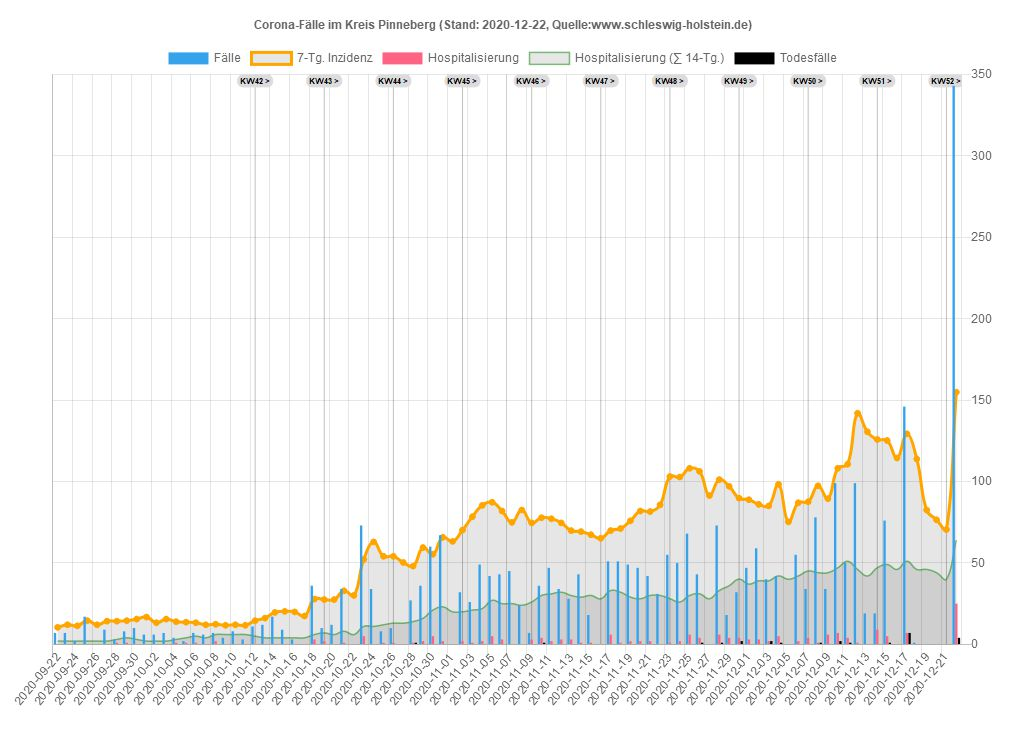
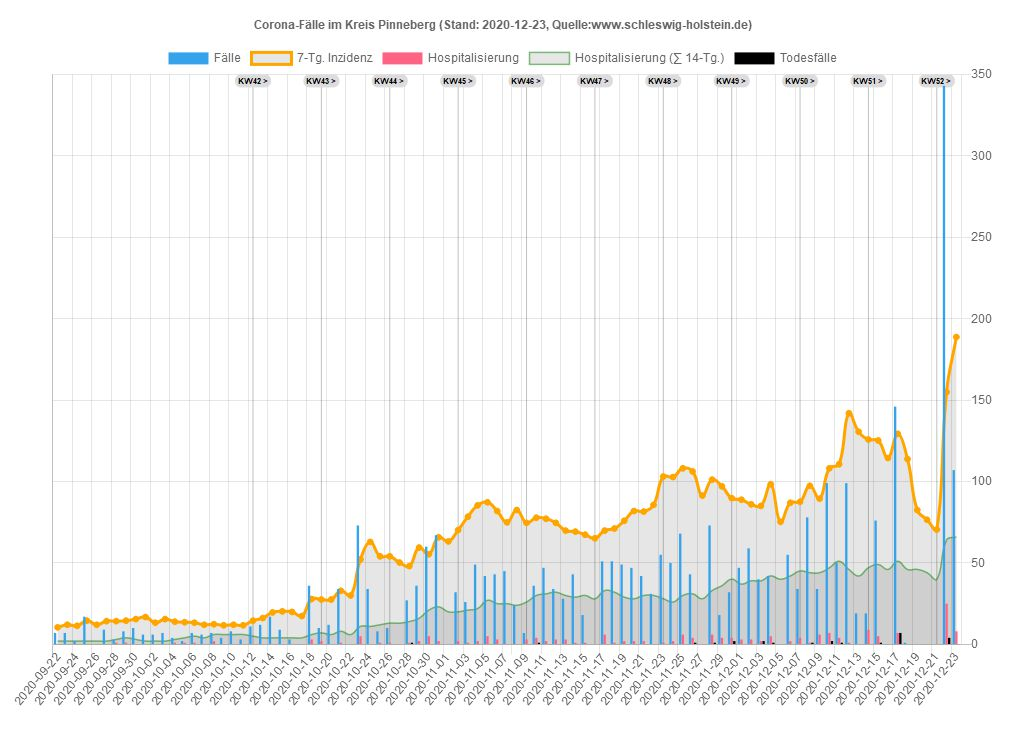
23.12.2020 21:50:43,80

Changed region(s): [[0.0625, 0.0931, 0.9375, 0.9622]]

diff --git a/sh/Data_SH.js b/sh/Data_SH.js
@@ -1,33 +1,33 @@
 var chdata={
-labels: ["2020-09-22","2020-09-23","2020-09-24","2020-09-25","2020-09-26","2020-09-27","2020-09-28","2020-09-29","2020-09-30","2020-10-01","2020-10-02","2020-10-03","2020-10-04","2020-10-05","2020-10-06","2020-10-07","2020-10-08","2020-10-09","2020-10-10","2020-10-11","2020-10-12","2020-10-13","2020-10-14","2020-10-15","2020-10-16","2020-10-17","2020-10-18","2020-10-19","2020-10-20","2020-10-21","2020-10-22","2020-10-23","2020-10-24","2020-10-25","2020-10-26","2020-10-27","2020-10-28","2020-10-29","2020-10-30","2020-10-31","2020-11-01","2020-11-02","2020-11-03","2020-11-04","2020-11-05","2020-11-06","2020-11-07","2020-11-08","2020-11-09","2020-11-10","2020-11-11","2020-11-12","2020-11-13","2020-11-14","2020-11-15","2020-11-16","2020-11-17","2020-11-18","2020-11-19","2020-11-20","2020-11-21","2020-11-22","2020-11-23","2020-11-24","2020-11-25","2020-11-26","2020-11-27","2020-11-28","2020-11-29","2020-11-30","2020-12-01","2020-12-02","2020-12-03","2020-12-04","2020-12-05","2020-12-06","2020-12-07","2020-12-08","2020-12-09","2020-12-10","2020-12-11","2020-12-12","2020-12-13","2020-12-14","2020-12-15","2020-12-16","2020-12-17","2020-12-18","2020-12-19","2020-12-20","2020-12-21","2020-12-22"],
+labels: ["2020-09-22","2020-09-23","2020-09-24","2020-09-25","2020-09-26","2020-09-27","2020-09-28","2020-09-29","2020-09-30","2020-10-01","2020-10-02","2020-10-03","2020-10-04","2020-10-05","2020-10-06","2020-10-07","2020-10-08","2020-10-09","2020-10-10","2020-10-11","2020-10-12","2020-10-13","2020-10-14","2020-10-15","2020-10-16","2020-10-17","2020-10-18","2020-10-19","2020-10-20","2020-10-21","2020-10-22","2020-10-23","2020-10-24","2020-10-25","2020-10-26","2020-10-27","2020-10-28","2020-10-29","2020-10-30","2020-10-31","2020-11-01","2020-11-02","2020-11-03","2020-11-04","2020-11-05","2020-11-06","2020-11-07","2020-11-08","2020-11-09","2020-11-10","2020-11-11","2020-11-12","2020-11-13","2020-11-14","2020-11-15","2020-11-16","2020-11-17","2020-11-18","2020-11-19","2020-11-20","2020-11-21","2020-11-22","2020-11-23","2020-11-24","2020-11-25","2020-11-26","2020-11-27","2020-11-28","2020-11-29","2020-11-30","2020-12-01","2020-12-02","2020-12-03","2020-12-04","2020-12-05","2020-12-06","2020-12-07","2020-12-08","2020-12-09","2020-12-10","2020-12-11","2020-12-12","2020-12-13","2020-12-14","2020-12-15","2020-12-16","2020-12-17","2020-12-18","2020-12-19","2020-12-20","2020-12-21","2020-12-22","2020-12-23"],
 datasets: [
 {label: 'Fälle',
 type: 'bar',
 backgroundColor: window.chartColors.blue,
-data: [38,42,63,53,15,15,38,48,49,27,50,16,24,39,54,45,79,54,26,25,65,65,65,55,90,26,88,163,111,160,136,236,142,115,164,164,280,215,313,265,161,142,236,262,220,274,233,177,215,252,247,192,296,158,161,100,294,208,264,250,153,121,145,251,256,225,180,219,71,81,244,240,245,318,234,154,183,314,297,529,384,472,140,241,486,322,602,508,431,157,211,776]},
+data: [38,42,63,53,15,15,38,48,49,27,50,16,24,39,54,45,79,54,26,25,65,65,65,55,90,26,88,163,111,160,136,236,142,115,164,164,280,215,313,265,161,142,236,262,220,274,233,177,215,252,247,192,296,158,161,100,294,208,264,250,153,121,145,251,256,225,180,219,71,81,244,240,245,318,234,154,183,314,297,529,384,472,140,241,486,322,602,508,431,157,211,776,722]},
 {label: '7-Tg. Inzidenz',
 type: 'line',
 pointBackgroundColor: 'orange',
 borderColor: 'orange',
-data: [7.23197027,7.88629139,8.74724023,9.40156135,9.33268544,9.16049567,9.09161977,9.4359993,9.67706498,8.43729865,8.33398478,8.36842274,8.67836432,8.71280227,8.91943,8.78167818,10.5724518,10.7102036,11.0545831,11.0890211,11.9844079,12.3632254,13.0519844,12.2254735,13.4652399,13.4652399,15.634831,19.0097504,20.5938963,23.8655019,26.6549761,31.6829174,35.67772,36.6075447,36.6419827,38.4671942,42.5997487,45.320347,47.9720694,52.2079377,53.7920836,53.0344486,55.5139813,54.8940981,55.0662879,53.7232077,52.6211932,53.1722004,55.6861711,56.2371783,55.720609,54.7563463,55.5139813,52.9311348,52.3801275,48.4197628,49.8661569,48.5230767,51.0026094,49.4184635,49.2462737,47.8687556,49.4184635,47.9376315,49.5906533,48.2475731,45.8369163,48.1098213,46.3879236,44.1838945,43.9428289,43.3918216,44.0805807,48.8330183,49.3495876,52.2079377,55.720609,58.1312658,60.0942291,69.874608,72.1475129,80.3437459,79.8616145,81.8590158,87.7823439,88.6432927,91.1572633,95.4275696,94.0156135,94.6010587,93.5679201,103.554927]},
+data: [7.23197027,7.88629139,8.74724023,9.40156135,9.33268544,9.16049567,9.09161977,9.4359993,9.67706498,8.43729865,8.33398478,8.36842274,8.67836432,8.71280227,8.91943,8.78167818,10.5724518,10.7102036,11.0545831,11.0890211,11.9844079,12.3632254,13.0519844,12.2254735,13.4652399,13.4652399,15.634831,19.0097504,20.5938963,23.8655019,26.6549761,31.6829174,35.67772,36.6075447,36.6419827,38.4671942,42.5997487,45.320347,47.9720694,52.2079377,53.7920836,53.0344486,55.5139813,54.8940981,55.0662879,53.7232077,52.6211932,53.1722004,55.6861711,56.2371783,55.720609,54.7563463,55.5139813,52.9311348,52.3801275,48.4197628,49.8661569,48.5230767,51.0026094,49.4184635,49.2462737,47.8687556,49.4184635,47.9376315,49.5906533,48.2475731,45.8369163,48.1098213,46.3879236,44.1838945,43.9428289,43.3918216,44.0805807,48.8330183,49.3495876,52.2079377,55.720609,58.1312658,60.0942291,69.874608,72.1475129,80.3437459,79.8616145,81.8590158,87.7823439,88.6432927,91.1572633,95.4275696,94.0156135,94.6010587,93.5679201,103.554927,117.330108]},
 {label: 'Hospitalisierung',
 type: 'bar',
 backgroundColor: window.chartColors.red,
-data: [1,2,7,1,0,0,2,1,3,1,1,0,4,3,1,1,4,2,0,3,5,1,1,2,4,0,9,10,8,9,12,7,5,6,7,7,11,10,11,6,3,9,19,20,15,15,5,7,13,15,21,13,17,8,17,13,23,10,15,9,7,7,13,16,26,19,12,14,15,10,12,8,10,14,3,5,24,13,26,20,14,12,6,26,27,16,20,18,8,13,13,43]},
+data: [1,2,7,1,0,0,2,1,3,1,1,0,4,3,1,1,4,2,0,3,5,1,1,2,4,0,9,10,8,9,12,7,5,6,7,7,11,10,11,6,3,9,19,20,15,15,5,7,13,15,21,13,17,8,17,13,23,10,15,9,7,7,13,16,26,19,12,14,15,10,12,8,10,14,3,5,24,13,26,20,14,12,6,26,27,16,20,18,8,13,13,43,35]},
 {label: 'Hosp. (∑ 14-Tg.)',
 type: 'line',
 borderColor: 'rgba(0,255,0,0.5)',
 borderWidth: 1.5,
 pointRadius: 0,
-data: [12,12,20,22,22,22,22,23,23,21,22,21,24,26,26,25,22,23,23,26,29,29,27,28,31,31,36,43,50,58,66,71,76,79,81,87,97,105,112,118,112,111,122,133,136,144,144,145,151,159,169,172,178,180,194,198,202,192,192,186,188,188,188,189,194,200,195,201,199,196,185,183,178,183,179,177,188,185,185,186,188,186,177,193,208,216,226,230,235,243,232,262]},
+data: [12,12,20,22,22,22,22,23,23,21,22,21,24,26,26,25,22,23,23,26,29,29,27,28,31,31,36,43,50,58,66,71,76,79,81,87,97,105,112,118,112,111,122,133,136,144,144,145,151,159,169,172,178,180,194,198,202,192,192,186,188,188,188,189,194,200,195,201,199,196,185,183,178,183,179,177,188,185,185,186,188,186,177,193,208,216,226,230,235,243,232,262,271]},
 {label: 'Aktuell im Krankenhaus',
 type: 'line',
 pointBackgroundColor: 'green',
 borderColor: 'green',
-data: [6,6,6,6,6,6,6,11,11,11,11,14,14,15,15,14,14,14,13,13,18,18,18,21,24,24,24,24,31,31,31,31,51,51,58,58,58,58,58,58,58,94,110,114,119,118,124,120,126,116,113,119,112,116,116,148,145,151,141,141,141,141,155,142,122,113,118,118,118,124,114,110,109,114,114,114,131,122,128,132,133,133,133,177,181,194,201,212,236,250,275,271]},
+data: [6,6,6,6,6,6,6,11,11,11,11,14,14,15,15,14,14,14,13,13,18,18,18,21,24,24,24,24,31,31,31,31,51,51,58,58,58,58,58,58,58,94,110,114,119,118,124,120,126,116,113,119,112,116,116,148,145,151,141,141,141,141,155,142,122,113,118,118,118,124,114,110,109,114,114,114,131,122,128,132,133,133,133,177,181,194,201,212,236,250,275,271,267]},
 {label: 'Todesfälle',
 type: 'bar',
 backgroundColor: 'black',
-data: [0,0,0,0,0,0,0,1,0,0,0,0,0,0,0,0,0,0,0,0,0,1,0,0,0,0,0,0,0,0,1,0,0,3,0,0,3,4,1,0,2,6,7,2,2,6,0,1,4,3,5,0,5,1,3,5,0,2,2,2,1,0,3,4,1,3,3,1,4,2,3,1,4,1,0,1,4,2,5,7,7,1,2,2,6,7,11,3,2,0,9,15]},
+data: [0,0,0,0,0,0,0,1,0,0,0,0,0,0,0,0,0,0,0,0,0,1,0,0,0,0,0,0,0,0,1,0,0,3,0,0,3,4,1,0,2,6,7,2,2,6,0,1,4,3,5,0,5,1,3,5,0,2,2,2,1,0,3,4,1,3,3,1,4,2,3,1,4,1,0,1,4,2,5,7,7,1,2,2,6,7,11,3,2,0,9,15,4]},
 ]};
 

diff --git a/sh/Data_SH_Alter.js b/sh/Data_SH_Alter.js
@@ -102,7 +102,8 @@ var chdata={
 				{x: '2020-12-19', y: 'Alle', v: 92.9480369, casesum: 2699},{x: '2020-12-19', y: '00-09', v: 52.1965394, casesum: 134},{x: '2020-12-19', y: '10-19', v: 91.3020322, casesum: 252},{x: '2020-12-19', y: '20-29', v: 134.703496, casesum: 431},{x: '2020-12-19', y: '30-39', v: 108.899726, casesum: 366},{x: '2020-12-19', y: '40-49', v: 107.525967, casesum: 379},{x: '2020-12-19', y: '50-59', v: 99.9190555, casesum: 495},{x: '2020-12-19', y: '60-69', v: 65.4691497, casesum: 238},{x: '2020-12-19', y: '70-79', v: 48.9979083, casesum: 145},{x: '2020-12-19', y: '80-89', v: 98.4108878, casesum: 176},{x: '2020-12-19', y: '90+', v: 288.034425, casesum: 83},
 				{x: '2020-12-20', y: 'Alle', v: 93.7056719, casesum: 2721},{x: '2020-12-20', y: '00-09', v: 49.4698546, casesum: 127},{x: '2020-12-20', y: '10-19', v: 97.4612963, casesum: 269},{x: '2020-12-20', y: '20-29', v: 134.390959, casesum: 430},{x: '2020-12-20', y: '30-39', v: 109.197266, casesum: 367},{x: '2020-12-20', y: '40-49', v: 110.079354, casesum: 388},{x: '2020-12-20', y: '50-59', v: 100.322769, casesum: 497},{x: '2020-12-20', y: '60-69', v: 67.1196325, casesum: 244},{x: '2020-12-20', y: '70-79', v: 47.6462419, casesum: 141},{x: '2020-12-20', y: '80-89', v: 98.4108878, casesum: 176},{x: '2020-12-20', y: '90+', v: 284.564131, casesum: 82},
 				{x: '2020-12-21', y: 'Alle', v: 92.8447231, casesum: 2696},{x: '2020-12-21', y: '00-09', v: 50.2489074, casesum: 129},{x: '2020-12-21', y: '10-19', v: 97.8236059, casesum: 270},{x: '2020-12-21', y: '20-29', v: 136.578719, casesum: 437},{x: '2020-12-21', y: '30-39', v: 101.16368, casesum: 340},{x: '2020-12-21', y: '40-49', v: 108.944515, casesum: 384},{x: '2020-12-21', y: '50-59', v: 100.322769, casesum: 497},{x: '2020-12-21', y: '60-69', v: 69.5953566, casesum: 253},{x: '2020-12-21', y: '70-79', v: 44.942909, casesum: 133},{x: '2020-12-21', y: '80-89', v: 99.5291934, casesum: 178},{x: '2020-12-21', y: '90+', v: 260.272071, casesum: 75},
-				{x: '2020-12-22', y: 'Alle', v: 102.797292, casesum: 2985},{x: '2020-12-22', y: '00-09', v: 43.2374319, casesum: 111},{x: '2020-12-22', y: '10-19', v: 104.34518, casesum: 288},{x: '2020-12-22', y: '20-29', v: 150.955426, casesum: 483},{x: '2020-12-22', y: '30-39', v: 114.25545, casesum: 384},{x: '2020-12-22', y: '40-49', v: 115.753547, casesum: 408},{x: '2020-12-22', y: '50-59', v: 111.223029, casesum: 551},{x: '2020-12-22', y: '60-69', v: 77.2976096, casesum: 281},{x: '2020-12-22', y: '70-79', v: 52.3770744, casesum: 155},{x: '2020-12-22', y: '80-89', v: 129.16429, casesum: 231},{x: '2020-12-22', y: '90+', v: 322.737368, casesum: 93}
+				{x: '2020-12-22', y: 'Alle', v: 102.797292, casesum: 2985},{x: '2020-12-22', y: '00-09', v: 43.2374319, casesum: 111},{x: '2020-12-22', y: '10-19', v: 104.34518, casesum: 288},{x: '2020-12-22', y: '20-29', v: 150.955426, casesum: 483},{x: '2020-12-22', y: '30-39', v: 114.25545, casesum: 384},{x: '2020-12-22', y: '40-49', v: 115.753547, casesum: 408},{x: '2020-12-22', y: '50-59', v: 111.223029, casesum: 551},{x: '2020-12-22', y: '60-69', v: 77.2976096, casesum: 281},{x: '2020-12-22', y: '70-79', v: 52.3770744, casesum: 155},{x: '2020-12-22', y: '80-89', v: 129.16429, casesum: 231},{x: '2020-12-22', y: '90+', v: 322.737368, casesum: 93},
+				{x: '2020-12-23', y: 'Alle', v: 81.411839, casesum: 2364.015},{x: '2020-12-23', y: '00-09', v: 47.5222225, casesum: 122},{x: '2020-12-23', y: '10-19', v: 111.953682, casesum: 309},{x: '2020-12-23', y: '20-29', v: 163.456911, casesum: 523},{x: '2020-12-23', y: '30-39', v: 130.620163, casesum: 439},{x: '2020-12-23', y: '40-49', v: 133.910966, casesum: 472},{x: '2020-12-23', y: '50-59', v: -83.1619234, casesum: -411.985},{x: '2020-12-23', y: '60-69', v: 92.4270349, casesum: 336},{x: '2020-12-23', y: '70-79', v: 57.1079069, casesum: 169},{x: '2020-12-23', y: '80-89', v: 158.799387, casesum: 284},{x: '2020-12-23', y: '90+', v: 423.375902, casesum: 122}
 			],
 			backgroundColor: function(context) {
 				return inzColor(context.dataset.data[context.dataIndex].v)
@@ -110,7 +111,7 @@ var chdata={
 			width: function(context) {
 				const a = context.chart.chartArea
 				if (!a) return 0
-				return (a.right - a.left) / 99.5
+				return (a.right - a.left) / 100.5
 			},
 			height: function(context) {
 				const a = context.chart.chartArea
@@ -122,7 +123,7 @@ var chdata={
 	options: {
 		legend: { display: false },
 		scales: {
-			xAxes: [{type: 'category', labels: ["2020-09-15","2020-09-16","2020-09-17","2020-09-18","2020-09-19","2020-09-20","2020-09-21","2020-09-22","2020-09-23","2020-09-24","2020-09-25","2020-09-26","2020-09-27","2020-09-28","2020-09-29","2020-09-30","2020-10-01","2020-10-02","2020-10-03","2020-10-04","2020-10-05","2020-10-06","2020-10-07","2020-10-08","2020-10-09","2020-10-10","2020-10-11","2020-10-12","2020-10-13","2020-10-14","2020-10-15","2020-10-16","2020-10-17","2020-10-18","2020-10-19","2020-10-20","2020-10-21","2020-10-22","2020-10-23","2020-10-24","2020-10-25","2020-10-26","2020-10-27","2020-10-28","2020-10-29","2020-10-30","2020-10-31","2020-11-01","2020-11-02","2020-11-03","2020-11-04","2020-11-05","2020-11-06","2020-11-07","2020-11-08","2020-11-09","2020-11-10","2020-11-11","2020-11-12","2020-11-13","2020-11-14","2020-11-15","2020-11-16","2020-11-17","2020-11-18","2020-11-19","2020-11-20","2020-11-21","2020-11-22","2020-11-23","2020-11-24","2020-11-25","2020-11-26","2020-11-27","2020-11-28","2020-11-29","2020-11-30","2020-12-01","2020-12-02","2020-12-03","2020-12-04","2020-12-05","2020-12-06","2020-12-07","2020-12-08","2020-12-09","2020-12-10","2020-12-11","2020-12-12","2020-12-13","2020-12-14","2020-12-15","2020-12-16","2020-12-17","2020-12-18","2020-12-19","2020-12-20","2020-12-21","2020-12-22",], ticks: {display: true},gridlines:{display:false}}],
+			xAxes: [{type: 'category', labels: ["2020-09-15","2020-09-16","2020-09-17","2020-09-18","2020-09-19","2020-09-20","2020-09-21","2020-09-22","2020-09-23","2020-09-24","2020-09-25","2020-09-26","2020-09-27","2020-09-28","2020-09-29","2020-09-30","2020-10-01","2020-10-02","2020-10-03","2020-10-04","2020-10-05","2020-10-06","2020-10-07","2020-10-08","2020-10-09","2020-10-10","2020-10-11","2020-10-12","2020-10-13","2020-10-14","2020-10-15","2020-10-16","2020-10-17","2020-10-18","2020-10-19","2020-10-20","2020-10-21","2020-10-22","2020-10-23","2020-10-24","2020-10-25","2020-10-26","2020-10-27","2020-10-28","2020-10-29","2020-10-30","2020-10-31","2020-11-01","2020-11-02","2020-11-03","2020-11-04","2020-11-05","2020-11-06","2020-11-07","2020-11-08","2020-11-09","2020-11-10","2020-11-11","2020-11-12","2020-11-13","2020-11-14","2020-11-15","2020-11-16","2020-11-17","2020-11-18","2020-11-19","2020-11-20","2020-11-21","2020-11-22","2020-11-23","2020-11-24","2020-11-25","2020-11-26","2020-11-27","2020-11-28","2020-11-29","2020-11-30","2020-12-01","2020-12-02","2020-12-03","2020-12-04","2020-12-05","2020-12-06","2020-12-07","2020-12-08","2020-12-09","2020-12-10","2020-12-11","2020-12-12","2020-12-13","2020-12-14","2020-12-15","2020-12-16","2020-12-17","2020-12-18","2020-12-19","2020-12-20","2020-12-21","2020-12-22","2020-12-23",], ticks: {display: true},gridlines:{display:false}}],
 			yAxes: [{type: 'category', labels: ["Alle","00-09","10-19","20-29","30-39","40-49","50-59","60-69","70-79","80-89","90+"], offset:true, ticks: {display: true},gridlines:{display:false}}],
 		},
 	}

diff --git a/sh/Kreis_PI.js b/sh/Kreis_PI.js
@@ -1,33 +1,33 @@
 var chdata={
-labels: ["2020-09-22","2020-09-23","2020-09-24","2020-09-25","2020-09-26","2020-09-27","2020-09-28","2020-09-29","2020-09-30","2020-10-01","2020-10-02","2020-10-03","2020-10-04","2020-10-05","2020-10-06","2020-10-07","2020-10-08","2020-10-09","2020-10-10","2020-10-11","2020-10-12","2020-10-13","2020-10-14","2020-10-15","2020-10-16","2020-10-17","2020-10-18","2020-10-19","2020-10-20","2020-10-21","2020-10-22","2020-10-23","2020-10-24","2020-10-25","2020-10-26","2020-10-27","2020-10-28","2020-10-29","2020-10-30","2020-10-31","2020-11-01","2020-11-02","2020-11-03","2020-11-04","2020-11-05","2020-11-06","2020-11-07","2020-11-08","2020-11-09","2020-11-10","2020-11-11","2020-11-12","2020-11-13","2020-11-14","2020-11-15","2020-11-16","2020-11-17","2020-11-18","2020-11-19","2020-11-20","2020-11-21","2020-11-22","2020-11-23","2020-11-24","2020-11-25","2020-11-26","2020-11-27","2020-11-28","2020-11-29","2020-11-30","2020-12-01","2020-12-02","2020-12-03","2020-12-04","2020-12-05","2020-12-06","2020-12-07","2020-12-08","2020-12-09","2020-12-10","2020-12-11","2020-12-12","2020-12-13","2020-12-14","2020-12-15","2020-12-16","2020-12-17","2020-12-18","2020-12-19","2020-12-20","2020-12-21","2020-12-22"],
+labels: ["2020-09-22","2020-09-23","2020-09-24","2020-09-25","2020-09-26","2020-09-27","2020-09-28","2020-09-29","2020-09-30","2020-10-01","2020-10-02","2020-10-03","2020-10-04","2020-10-05","2020-10-06","2020-10-07","2020-10-08","2020-10-09","2020-10-10","2020-10-11","2020-10-12","2020-10-13","2020-10-14","2020-10-15","2020-10-16","2020-10-17","2020-10-18","2020-10-19","2020-10-20","2020-10-21","2020-10-22","2020-10-23","2020-10-24","2020-10-25","2020-10-26","2020-10-27","2020-10-28","2020-10-29","2020-10-30","2020-10-31","2020-11-01","2020-11-02","2020-11-03","2020-11-04","2020-11-05","2020-11-06","2020-11-07","2020-11-08","2020-11-09","2020-11-10","2020-11-11","2020-11-12","2020-11-13","2020-11-14","2020-11-15","2020-11-16","2020-11-17","2020-11-18","2020-11-19","2020-11-20","2020-11-21","2020-11-22","2020-11-23","2020-11-24","2020-11-25","2020-11-26","2020-11-27","2020-11-28","2020-11-29","2020-11-30","2020-12-01","2020-12-02","2020-12-03","2020-12-04","2020-12-05","2020-12-06","2020-12-07","2020-12-08","2020-12-09","2020-12-10","2020-12-11","2020-12-12","2020-12-13","2020-12-14","2020-12-15","2020-12-16","2020-12-17","2020-12-18","2020-12-19","2020-12-20","2020-12-21","2020-12-22","2020-12-23"],
 datasets: [
 {label: 'Fälle',
 type: 'bar',
 backgroundColor: window.chartColors.blue,
 yAxisID: 'first-y-axis',
-data: [7,7,2,17,0,9,3,8,10,6,6,7,4,2,7,6,7,4,8,3,11,12,17,9,3,0,36,10,12,34,0,73,34,8,10,0,27,36,60,67,0,32,26,49,42,43,45,24,7,36,47,34,28,43,18,0,51,51,49,47,42,31,55,50,68,43,0,73,18,32,47,59,40,42,0,55,34,78,34,99,50,99,19,19,76,0,146,1,0,0,0,343]},
+data: [7,7,2,17,0,9,3,8,10,6,6,7,4,2,7,6,7,4,8,3,11,12,17,9,3,0,36,10,12,34,0,73,34,8,10,0,27,36,60,67,0,32,26,49,42,43,45,24,7,36,47,34,28,43,18,0,51,51,49,47,42,31,55,50,68,43,0,73,18,32,47,59,40,42,0,55,34,78,34,99,50,99,19,19,76,0,146,1,0,0,0,343,107]},
 {label: '7-Tg. Inzidenz',
 type: 'line',
 pointBackgroundColor: 'orange',
 borderColor: 'orange',
 yAxisID: 'first-y-axis',
-data: [10.4300994,12.0104175,11.3782902,14.5389264,12.0104175,14.2228628,14.2228628,14.5389264,15.4871172,16.7513717,13.2746719,15.4871172,13.9067992,13.5907355,13.2746719,12.0104175,12.3264811,11.6943538,12.0104175,11.6943538,14.5389264,16.1192445,19.5959443,20.2280715,19.9120079,17.383499,27.8135983,27.4975347,27.4975347,32.8706162,30.0260436,52.1504969,62.8966598,54.0468786,54.0468786,50.2541151,48.0416698,59.41996,55.311133,65.7412324,63.2127235,70.166123,78.3837771,85.3371767,87.2335584,81.8604769,74.9070773,82.4926041,74.5910137,77.7516499,77.1195226,74.5910137,69.8500594,69.2179322,67.3215505,65.1091052,69.8500594,71.1143139,75.8552681,81.8604769,81.5444133,85.6532403,103.036739,102.720676,108.093757,106.197375,91.3423854,101.140358,97.0315305,89.7620673,88.8138765,85.9693039,85.021113,98.295785,75.2231409,86.9174948,87.549622,97.3475941,89.4460037,108.093757,110.622266,141.912564,130.534274,125.79332,125.161192,114.415029,129.270019,113.782902,82.4926041,76.4873954,70.4821867,154.871172]},
+data: [10.4300994,12.0104175,11.3782902,14.5389264,12.0104175,14.2228628,14.2228628,14.5389264,15.4871172,16.7513717,13.2746719,15.4871172,13.9067992,13.5907355,13.2746719,12.0104175,12.3264811,11.6943538,12.0104175,11.6943538,14.5389264,16.1192445,19.5959443,20.2280715,19.9120079,17.383499,27.8135983,27.4975347,27.4975347,32.8706162,30.0260436,52.1504969,62.8966598,54.0468786,54.0468786,50.2541151,48.0416698,59.41996,55.311133,65.7412324,63.2127235,70.166123,78.3837771,85.3371767,87.2335584,81.8604769,74.9070773,82.4926041,74.5910137,77.7516499,77.1195226,74.5910137,69.8500594,69.2179322,67.3215505,65.1091052,69.8500594,71.1143139,75.8552681,81.8604769,81.5444133,85.6532403,103.036739,102.720676,108.093757,106.197375,91.3423854,101.140358,97.0315305,89.7620673,88.8138765,85.9693039,85.021113,98.295785,75.2231409,86.9174948,87.549622,97.3475941,89.4460037,108.093757,110.622266,141.912564,130.534274,125.79332,125.161192,114.415029,129.270019,113.782902,82.4926041,76.4873954,70.4821867,154.871172,188.68998]},
 {label: 'Hospitalisierung',
 type: 'bar',
 backgroundColor: window.chartColors.red,
 yAxisID: 'first-y-axis',
-data: [0,0,0,0,0,0,1,1,0,0,0,0,1,1,1,-1,2,0,0,0,0,0,0,0,0,0,3,2,0,1,0,5,0,1,1,0,1,2,5,2,0,2,1,2,5,3,0,0,3,4,2,3,3,1,1,0,6,1,2,2,2,0,1,2,6,4,0,6,4,4,3,3,2,5,0,2,4,1,6,7,4,1,0,9,5,0,7,0,0,0,0,25]},
+data: [0,0,0,0,0,0,1,1,0,0,0,0,1,1,1,-1,2,0,0,0,0,0,0,0,0,0,3,2,0,1,0,5,0,1,1,0,1,2,5,2,0,2,1,2,5,3,0,0,3,4,2,3,3,1,1,0,6,1,2,2,2,0,1,2,6,4,0,6,4,4,3,3,2,5,0,2,4,1,6,7,4,1,0,9,5,0,7,0,0,0,0,25,8]},
 {label: 'Hospitalisierung (∑ 14-Tg.)',
 type: 'line',
 pointRadius: 0,
 borderColor: 'rgba(0,128,0,0.5)',
 borderWidth: 1.5,
 yAxisID: 'first-y-axis',
-data: [2,2,2,2,2,2,3,4,3,2,2,2,3,4,5,4,6,6,6,6,5,4,4,4,4,4,6,7,6,8,6,11,11,12,13,13,14,16,21,23,20,20,21,22,27,25,25,24,26,30,31,32,30,29,30,28,33,32,29,28,30,30,28,26,30,31,28,33,36,40,37,39,39,42,40,42,45,44,44,47,51,46,42,47,49,46,51,46,46,44,40,64]},
+data: [2,2,2,2,2,2,3,4,3,2,2,2,3,4,5,4,6,6,6,6,5,4,4,4,4,4,6,7,6,8,6,11,11,12,13,13,14,16,21,23,20,20,21,22,27,25,25,24,26,30,31,32,30,29,30,28,33,32,29,28,30,30,28,26,30,31,28,33,36,40,37,39,39,42,40,42,45,44,44,47,51,46,42,47,49,46,51,46,46,44,40,64,66]},
 {label: 'Todesfälle',
 type: 'bar',
 backgroundColor: 'black',
 yAxisID: 'first-y-axis',
-data: [0,0,0,0,0,0,0,0,0,0,0,0,0,0,0,0,0,0,0,0,0,0,0,0,0,0,0,0,0,0,0,0,0,0,0,0,1,0,0,0,0,0,0,0,0,0,0,0,0,1,0,0,0,0,0,0,0,0,0,0,0,0,0,0,0,1,0,1,0,2,0,0,2,1,0,0,0,1,0,2,1,0,0,0,1,0,7,0,0,0,0,4]},
+data: [0,0,0,0,0,0,0,0,0,0,0,0,0,0,0,0,0,0,0,0,0,0,0,0,0,0,0,0,0,0,0,0,0,0,0,0,1,0,0,0,0,0,0,0,0,0,0,0,0,1,0,0,0,0,0,0,0,0,0,0,0,0,0,0,0,1,0,1,0,2,0,0,2,1,0,0,0,1,0,2,1,0,0,0,1,0,7,0,0,0,0,4,0]},
 ]};
 

diff --git a/sh/index_sh_alter.html b/sh/index_sh_alter.html
@@ -5,7 +5,7 @@
 <meta property="og:image" content="index_sh_alter.jpg" />
 <meta property="og:type" content="website" />
 <meta property="og:locale" content="de_DE" />
-<meta property="og:updated_time" content="2020-12-23T21:26:36+01:00" />
+<meta property="og:updated_time" content="2020-12-23T21:50:41+01:00" />
 <title>Altersverteilung der Corona-Fälle in Schleswig-Holstein</title>
 <link rel="stylesheet" href="../css/style.css" media="screen" type="text/css">
 <link rel="stylesheet" media="screen" href="Chart.min.css"> 

diff --git a/sh/index_pi_alter.html b/sh/index_pi_alter.html
@@ -5,7 +5,7 @@
 <meta property="og:image" content="index_pi_alter.jpg" />
 <meta property="og:type" content="website" />
 <meta property="og:locale" content="de_DE" />
-<meta property="og:updated_time" content="2020-12-23T21:26:36+01:00" />
+<meta property="og:updated_time" content="2020-12-23T21:50:41+01:00" />
 <title>Altersverteilung der Corona-Fälle im Kreis Pinneberg</title>
 <link rel="stylesheet" href="../css/style.css" media="screen" type="text/css">
 <link rel="stylesheet" media="screen" href="Chart.min.css"> 

diff --git a/sh/index.html b/sh/index.html
@@ -5,7 +5,7 @@
 <meta property="og:image" content="index.jpg" />
 <meta property="og:type" content="website" />
 <meta property="og:locale" content="de_DE" />
-<meta property="og:updated_time" content="2020-12-23T21:26:36+01:00" />
+<meta property="og:updated_time" content="2020-12-23T21:50:41+01:00" />
 <title>Corona-Fälle im Kreis Pinneberg</title>
 <link rel="stylesheet" href="../css/style.css" media="screen" type="text/css">
 <link rel="stylesheet" media="screen" href="Chart.min.css"> 
